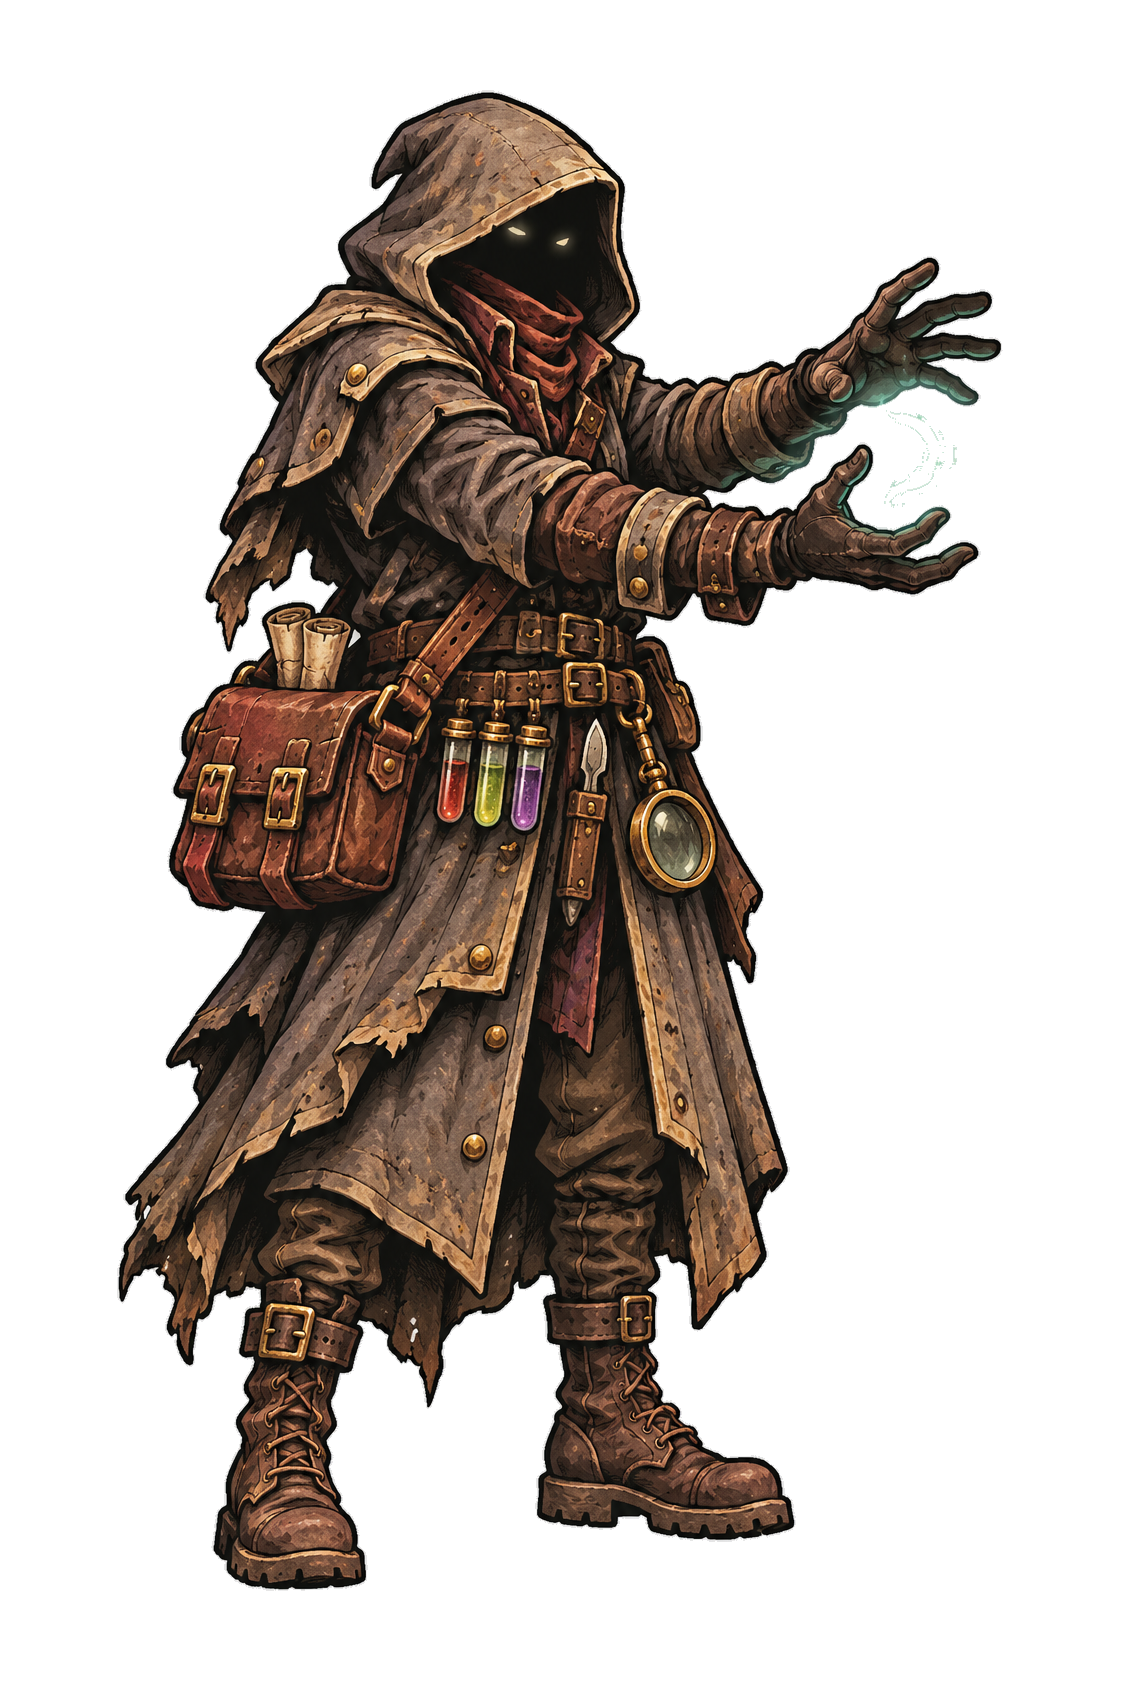
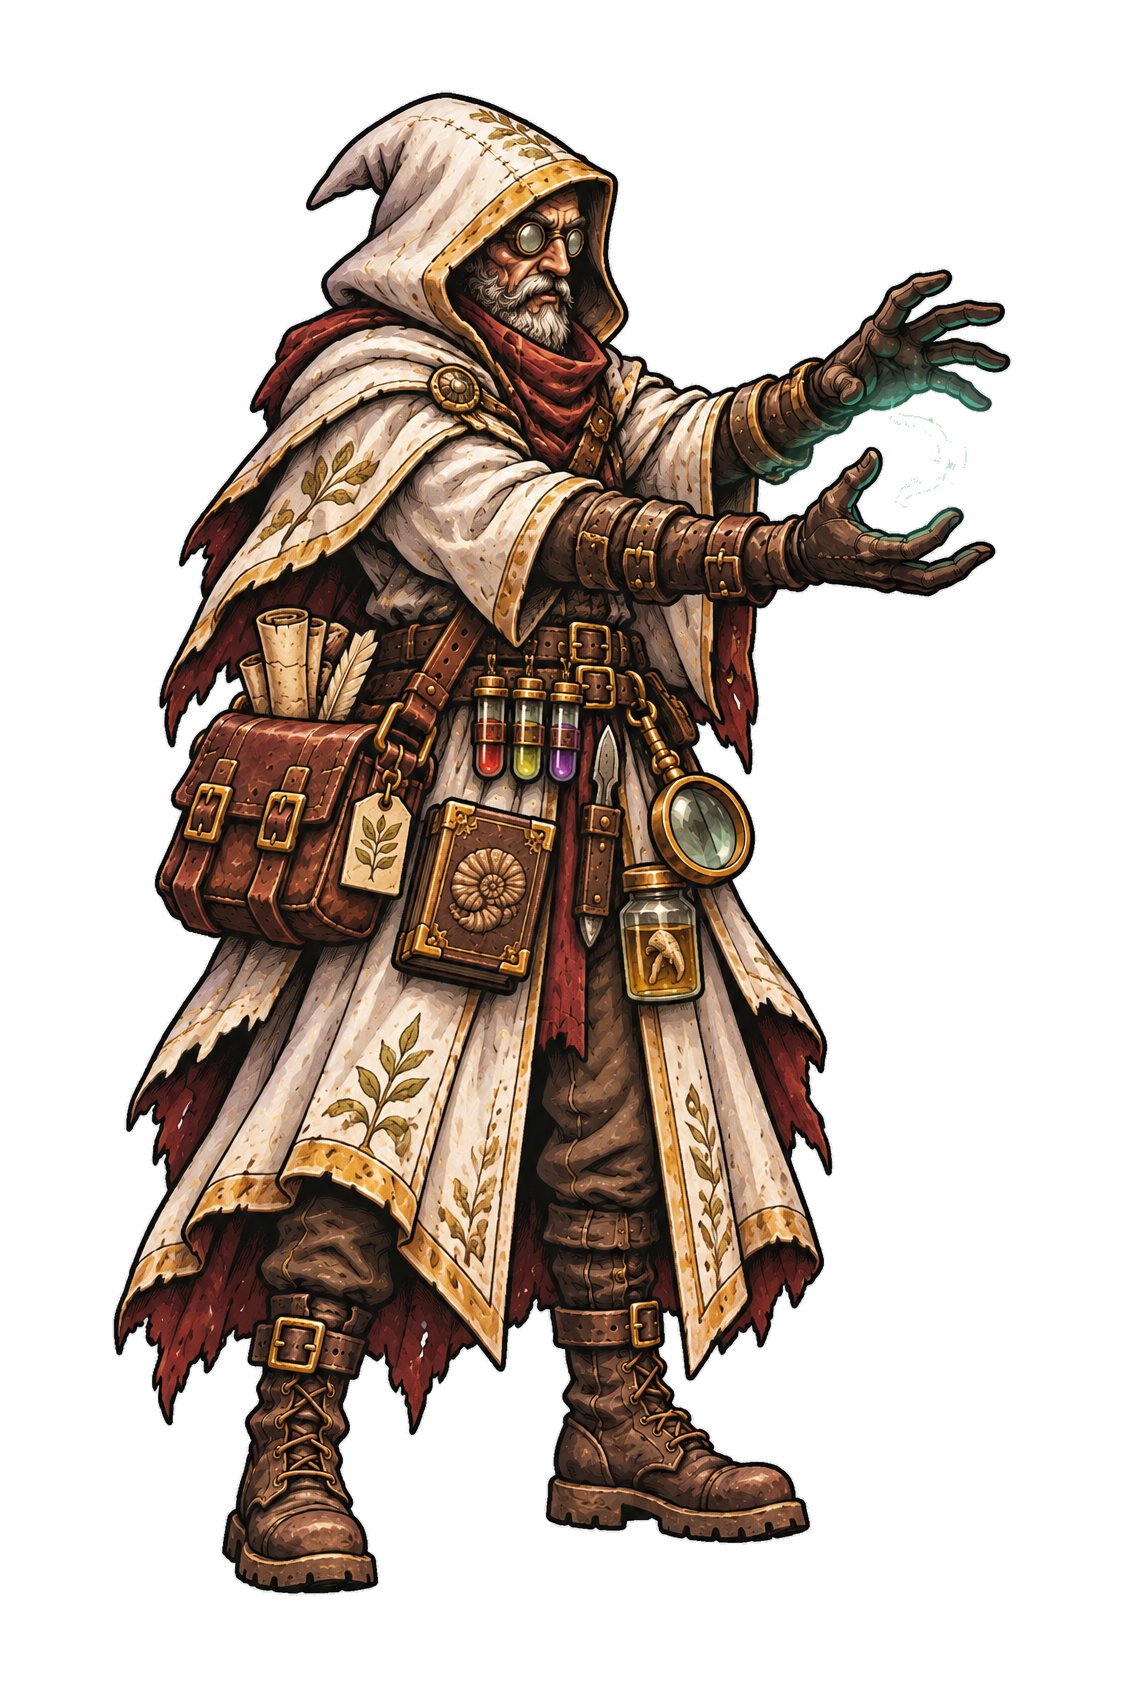
Personagem: nova arte (velho erudito de manto claro)

diff --git a/docs/ARTE.md b/docs/ARTE.md
@@ -626,7 +626,7 @@ Precisa de um ajuste pequeno no código antes; me avise que eu preparo e escrevo
 
 | Item | Onde aparece |
 |---|---|
-| ~~O Pesquisador (personagem do jogador)~~ | **Pronto** (12/11): `assets/art/ui/player.png`, mago-naturalista encapuzado conjurando para a direita. Original em `assets/art/extra/player/`. Se trocar a imagem, o ponto das mãos (`HANDS` em `player_panel.gd`) precisa ser ajustado |
+| ~~O Pesquisador (personagem do jogador)~~ | **Pronto** (12/11): `assets/art/ui/player.png`, velho erudito de manto claro conjurando para a direita (v2). Original e a v1 (encapuzado escuro) em `assets/art/extra/player/`. Se trocar a imagem, o ponto das mãos (`HANDS` em `player_panel.gd`) precisa ser ajustado |
 
 ## Ferramentas (para mim)
 
